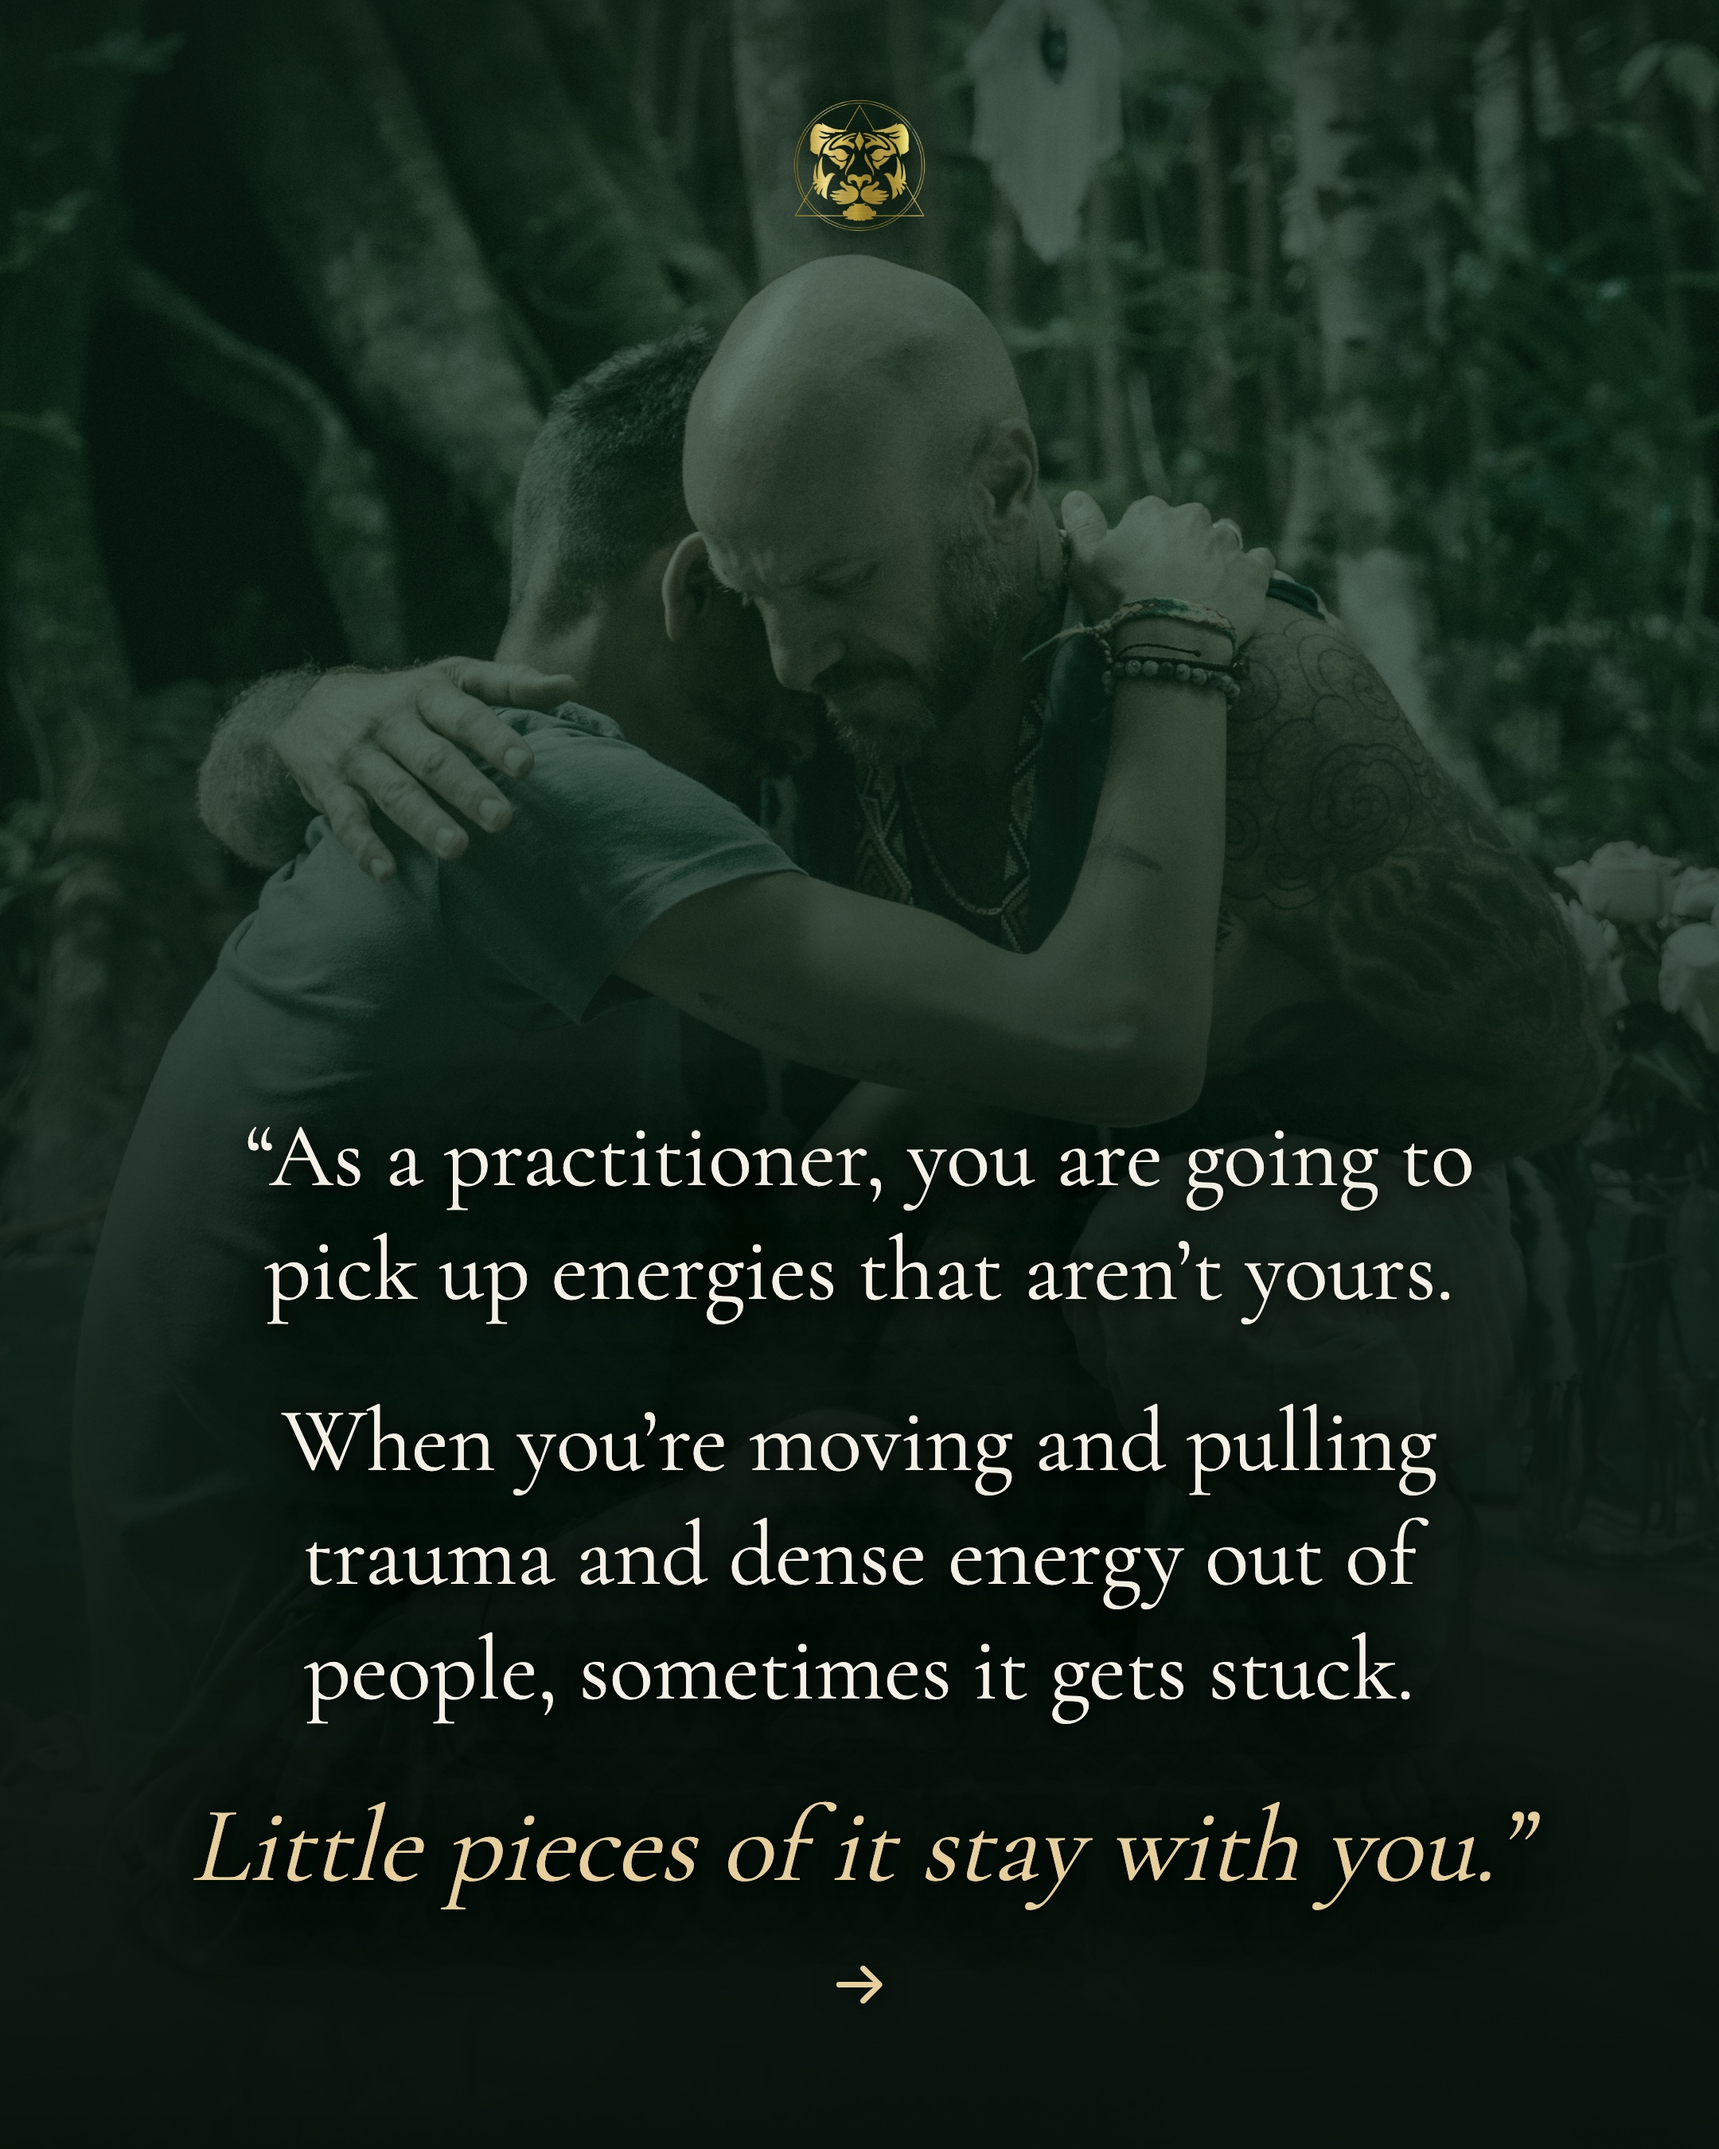
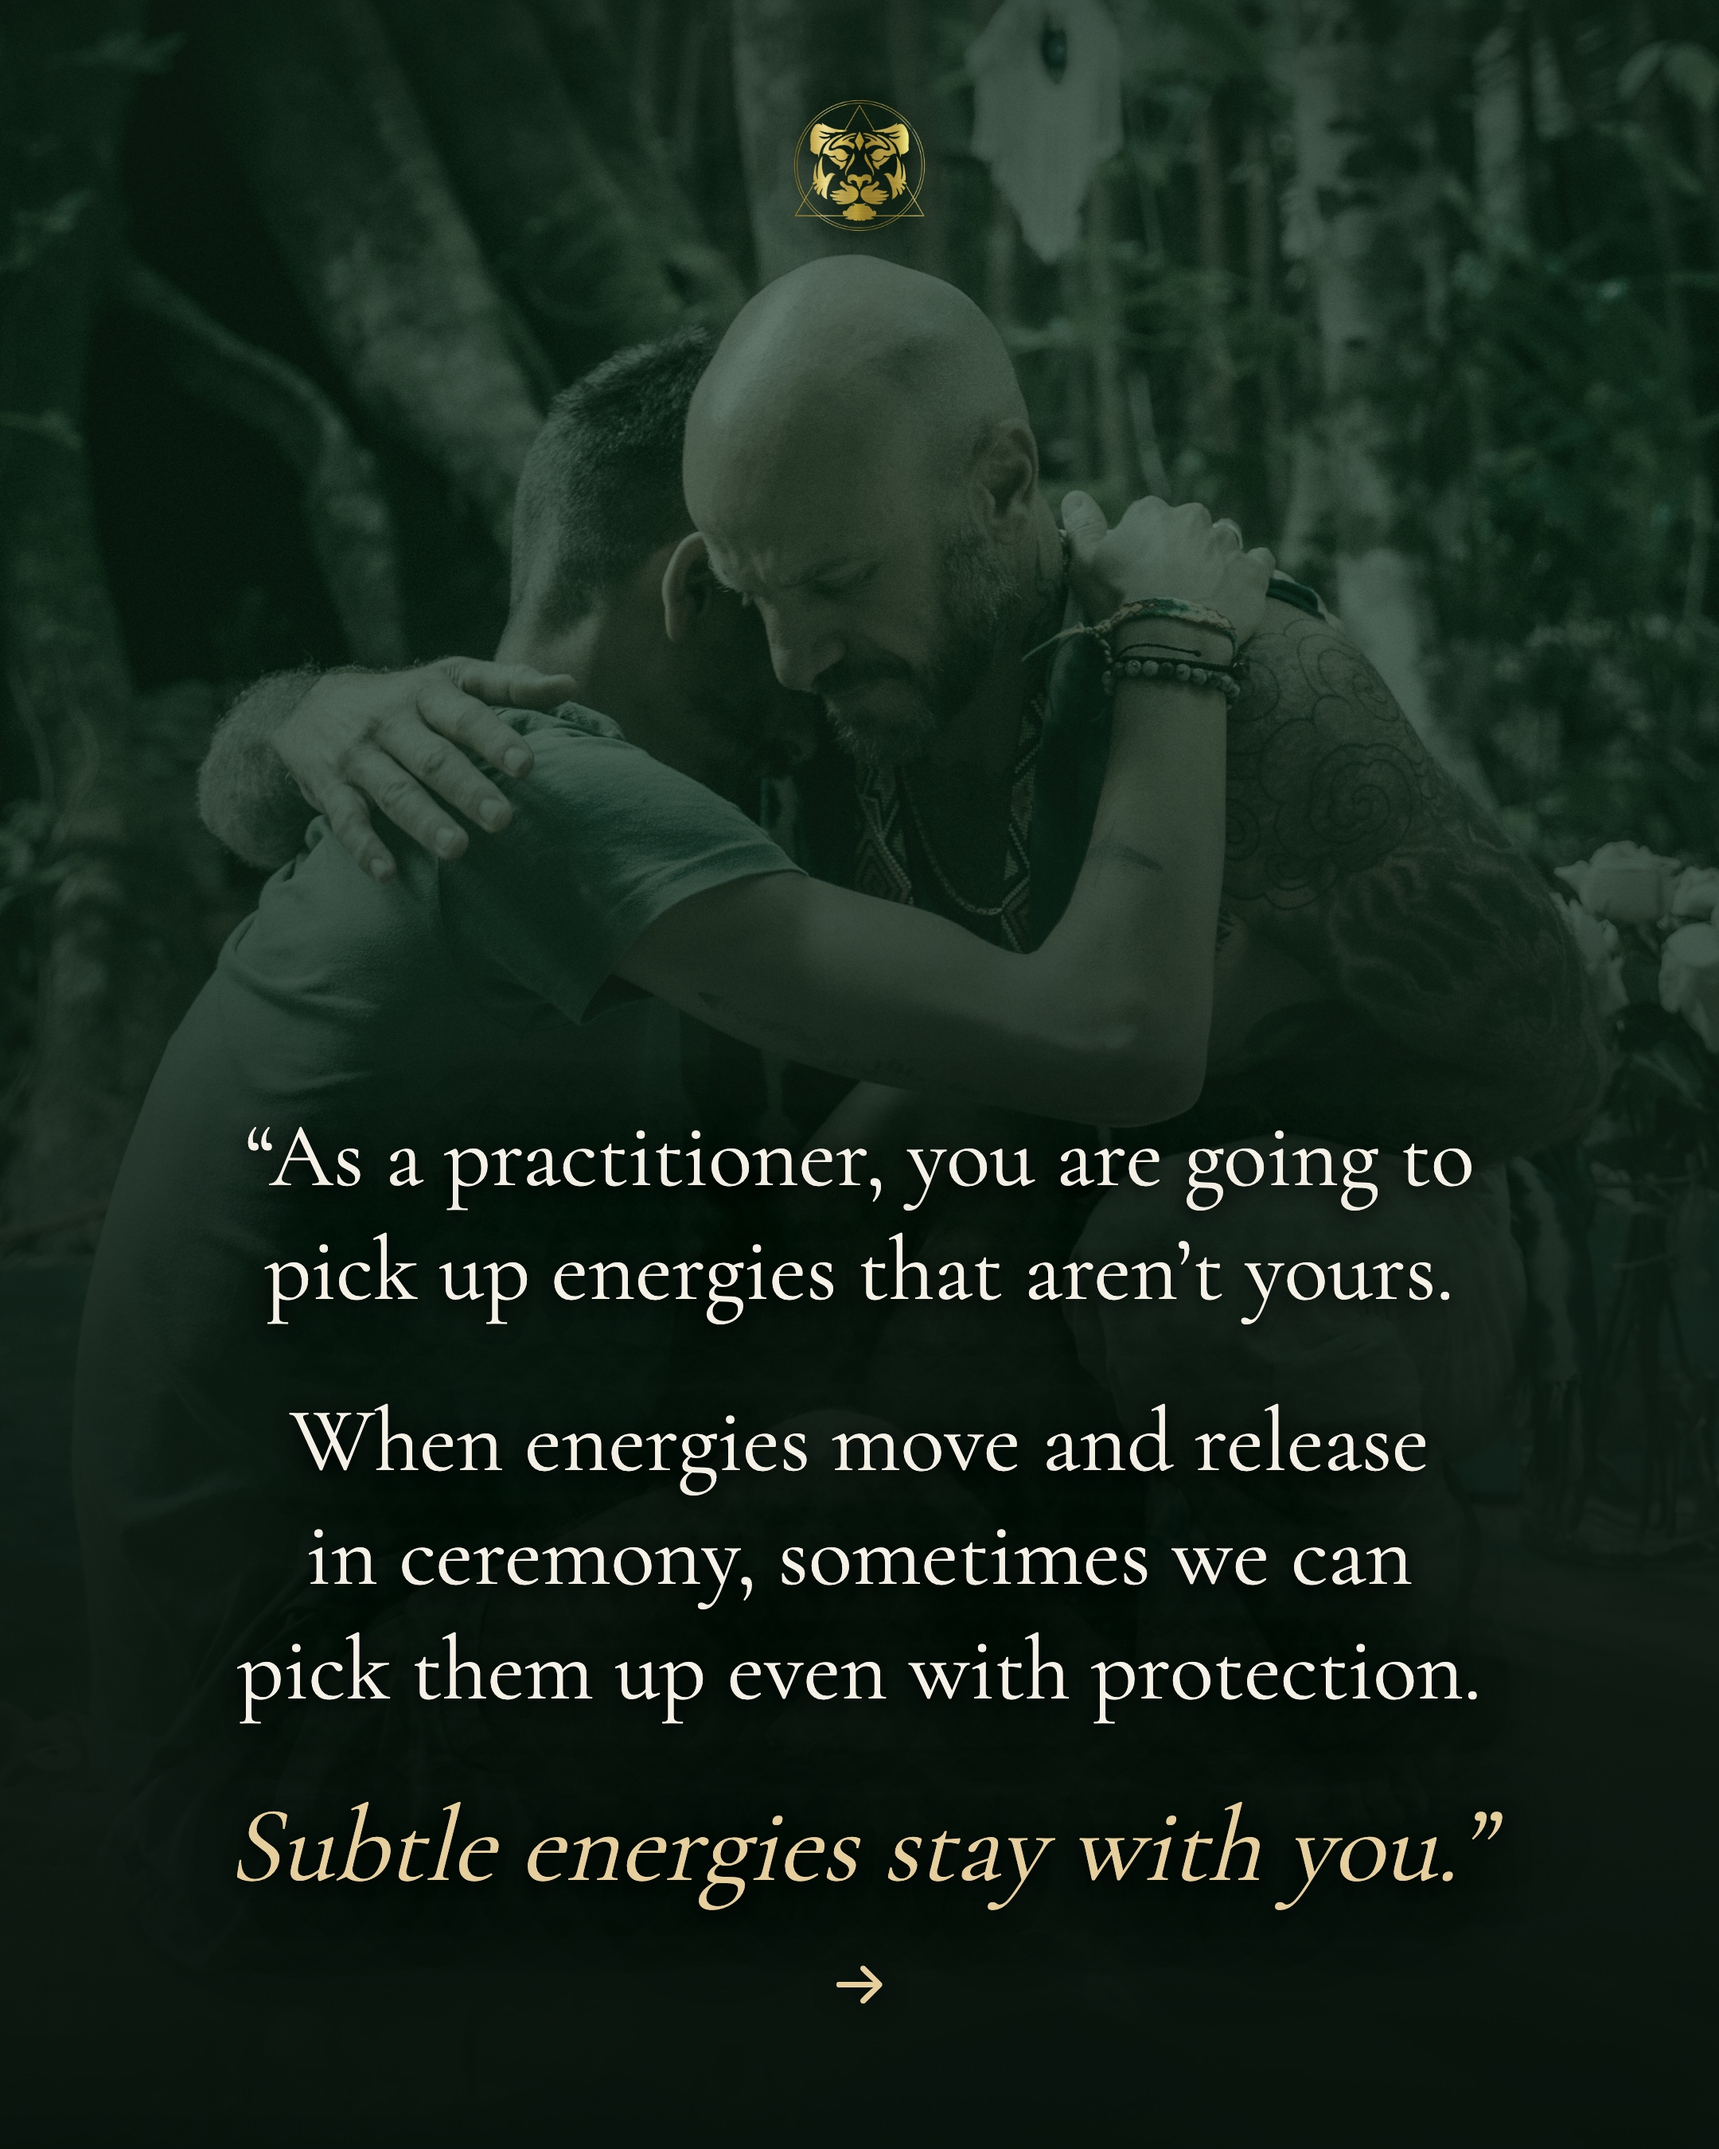
Calendar: Blaine's wording on the Aug 27 carousel slide 2

Changed region(s): [[0.1241, 0.6533, 0.8375, 0.8089], [0.1241, 0.84, 0.8995, 0.9022], [0.8065, 0.7778, 0.8375, 0.8089]]

diff --git a/index.html b/index.html
@@ -443,11 +443,11 @@ const POSTS = [
       "Post the 7 slides in order (Slide 1 \u2192 7)",
       "Post from Blaine\u2019s voice, first person"
     ],
-    caption:"Nobody tells you this part when you start facilitating.\n\nYou will pick up energy that isn\u2019t yours. When you move dense energy out of someone, pieces of it can stay with you. It shows up as low vibration emotion: less happiness, stress, anxiety, depression, sadness.\n\nThe way you can tell it isn\u2019t yours is that you can\u2019t identify it. If you can\u2019t identify the emotion, it\u2019s probably not yours.\n\nThat\u2019s how you know your energy needs to be cleansed. Rapeh, copal, sage, flower bath, energy work, salt, Mapacho, cedar, ruda, or whatever practice you already turn to.\n\nAs facilitators, we need to receive the medicine too. We hold space for everyone else and forget that the medicine is our teacher as well.\n\nFacilitators, what practices do you use to cleanse your energy after ceremony? I want to hear what works for you.",
-    notes:"Blaine on the energy facilitators pick up in ceremony and why they have to clean it. Seven slides, built and ready to post.\n\n# The flow\n1. Hook: facilitators carry unwanted energies.\n2. Why: when you move trauma and dense energy out of people, pieces of it get stuck with you.\n3. What it feels like: low vibration emotion, less happiness, stress, anxiety, depression, sadness.\n4. The tell: you can\u2019t identify it. If you can\u2019t name the emotion, it probably isn\u2019t yours.\n5. What to do: your own practices, or rapeh, copal, sage, flower bath, energy work, salt, Mapacho, cedar, ruda.\n6. The point: as facilitators we need to receive the medicine too. It is our teacher as well.\n7. Close: what practices do you use to cleanse your energy after ceremony?\n\n**Note:** every slide stays inside Blaine\u2019s own practice and experience. Nothing claims a specific outcome for anyone else.",
+    caption:"Nobody tells you this part when you start facilitating.\n\nYou will pick up energy that isn\u2019t yours. When energies move and release in ceremony, we can pick them up even with protection. Subtle energies stay with you. It shows up as low vibration emotion: less happiness, stress, anxiety, depression, sadness.\n\nThe way you can tell it isn\u2019t yours is that you can\u2019t identify it. If you can\u2019t identify the emotion, it\u2019s probably not yours.\n\nThat\u2019s how you know your energy needs to be cleansed. Rapeh, copal, sage, flower bath, energy work, salt, Mapacho, cedar, ruda, or whatever practice you already turn to.\n\nAs facilitators, we need to receive the medicine too. We hold space for everyone else and forget that the medicine is our teacher as well.\n\nFacilitators, what practices do you use to cleanse your energy after ceremony? I want to hear what works for you.",
+    notes:"Blaine on the energy facilitators pick up in ceremony and why they have to clean it. Seven slides, built and ready to post.\n\n# The flow\n1. Hook: facilitators carry unwanted energies.\n2. Why: when energies move and release in ceremony, we can pick them up even with protection.\n3. What it feels like: low vibration emotion, less happiness, stress, anxiety, depression, sadness.\n4. The tell: you can\u2019t identify it. If you can\u2019t name the emotion, it probably isn\u2019t yours.\n5. What to do: your own practices, or rapeh, copal, sage, flower bath, energy work, salt, Mapacho, cedar, ruda.\n6. The point: as facilitators we need to receive the medicine too. It is our teacher as well.\n7. Close: what practices do you use to cleanse your energy after ceremony?\n\n**Note:** every slide stays inside Blaine\u2019s own practice and experience. Nothing claims a specific outcome for anyone else.",
     assets:[
       {src:"assets/carousel-facilitator-energy/01.jpg", thumb:"assets/carousel-facilitator-energy/thumb/01.jpg", cap:"Slide 1: Hook \u2014 facilitators carry unwanted energies"},
-      {src:"assets/carousel-facilitator-energy/02.jpg", thumb:"assets/carousel-facilitator-energy/thumb/02.jpg", cap:"Slide 2: Why it happens \u2014 little pieces stay with you"},
+      {src:"assets/carousel-facilitator-energy/02.jpg", thumb:"assets/carousel-facilitator-energy/thumb/02.jpg", cap:"Slide 2: Why it happens \u2014 subtle energies stay with you"},
       {src:"assets/carousel-facilitator-energy/03.jpg", thumb:"assets/carousel-facilitator-energy/thumb/03.jpg", cap:"Slide 3: What it feels like \u2014 low vibration emotion"},
       {src:"assets/carousel-facilitator-energy/04.jpg", thumb:"assets/carousel-facilitator-energy/thumb/04.jpg", cap:"Slide 4: The tell \u2014 if you can\u2019t identify it, it isn\u2019t yours"},
       {src:"assets/carousel-facilitator-energy/05.jpg", thumb:"assets/carousel-facilitator-energy/thumb/05.jpg", cap:"Slide 5: How to cleanse \u2014 rapeh, copal, sage, flower bath, salt, Mapacho, cedar, ruda"},
